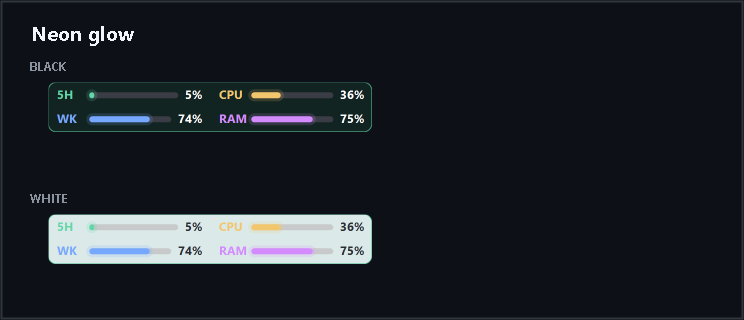
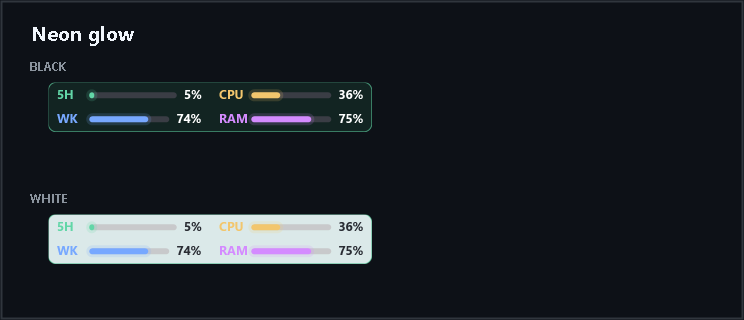
Improve layered text readability

diff --git a/UI/CompactBarRenderer.cs b/UI/CompactBarRenderer.cs
@@ -1,4 +1,5 @@
 using System.Drawing.Drawing2D;
+using System.Drawing.Text;
 using CodexUsageMonitor.Models;
 
 namespace CodexUsageMonitor.UI;
@@ -37,6 +38,8 @@ internal static class CompactBarRenderer
     {
         MetricVisual[] metrics = Metrics(settings, snapshot, systemUsage);
         bool lightTheme = settings.ThemeVariant == ThemeVariant.Light;
+        graphics.TextRenderingHint = TextRenderingHint.AntiAliasGridFit;
+        graphics.TextContrast = 0;
         DrawBackground(graphics, size, settings, metrics, scale);
 
         switch (settings.CompactBarStyle)
@@ -216,8 +219,8 @@ internal static class CompactBarRenderer
             graphics.FillPath(cellBrush, cellPath);
         }
 
-        using var font = new Font("Segoe UI", 9f, FontStyle.Regular, GraphicsUnit.Point);
-        using var boldFont = new Font(font, FontStyle.Bold);
+        using var font = new Font("Segoe UI", 9.5f, FontStyle.Bold, GraphicsUnit.Point);
+        using var boldFont = new Font("Segoe UI", 9.5f, FontStyle.Bold, GraphicsUnit.Point);
         using var textBrush = new SolidBrush(textColor);
         using var titleBrush = new SolidBrush(titleColor);
         string percentText = PercentText(metric.Percent);
@@ -244,13 +247,23 @@ internal static class CompactBarRenderer
                 DrawIcon(graphics, metric.Icon, new Rectangle(contentX, bounds.Y + S(6, scale), S(13, scale), S(13, scale)), titleColor, scale);
                 contentX += S(18, scale);
             }
-            graphics.DrawString(metric.Title, style == LinearStyle.Neon ? boldFont : font, titleBrush, contentX, bounds.Y + S(2, scale));
+            graphics.DrawString(
+                metric.Title,
+                style == LinearStyle.Neon ? boldFont : font,
+                titleBrush,
+                contentX,
+                bounds.Y + S(1, scale));
             contentX += S(style == LinearStyle.Cards ? 31 : 34, scale);
         }
 
         if (metric.Settings.Presentation == MetricPresentation.PercentOnly)
         {
-            graphics.DrawString(percentText, boldFont, textBrush, contentX + S(3, scale), bounds.Y + S(2, scale));
+            graphics.DrawString(
+                percentText,
+                boldFont,
+                textBrush,
+                contentX + S(3, scale),
+                bounds.Y + S(1, scale));
             return;
         }
 
@@ -259,7 +272,12 @@ internal static class CompactBarRenderer
         {
             SizeF valueSize = graphics.MeasureString(percentText, boldFont);
             valueWidth = (int)Math.Ceiling(valueSize.Width) + S(4, scale);
-            graphics.DrawString(percentText, boldFont, textBrush, bounds.Right - valueSize.Width - S(3, scale), bounds.Y + S(2, scale));
+            graphics.DrawString(
+                percentText,
+                boldFont,
+                textBrush,
+                bounds.Right - valueSize.Width - S(3, scale),
+                bounds.Y + S(1, scale));
         }
 
         var track = new Rectangle(
@@ -286,7 +304,7 @@ internal static class CompactBarRenderer
                 titleHeight + S(1, scale),
                 diameter,
                 diameter);
-            using var font = new Font("Segoe UI", 8f, FontStyle.Regular, GraphicsUnit.Point);
+            using var font = new Font("Segoe UI", 8.5f, FontStyle.Bold, GraphicsUnit.Point);
             using var boldFont = new Font("Segoe UI", diameter < S(34, scale) ? 7.5f : 9f, FontStyle.Bold, GraphicsUnit.Point);
             using var titleBrush = new SolidBrush(Color.FromArgb(255, color.R, color.G, color.B));
             Color textColor = lightTheme ? Color.FromArgb(42, 45, 52) : Color.White;
@@ -314,11 +332,11 @@ internal static class CompactBarRenderer
             if (lightTheme)
                 track = Mix(track, Color.White, 0.72f);
             Color textColor = lightTheme ? Color.FromArgb(42, 45, 52) : Color.White;
-            using var font = new Font("Segoe UI", 9f, FontStyle.Regular, GraphicsUnit.Point);
-            using var boldFont = new Font(font, FontStyle.Bold);
+            using var font = new Font("Segoe UI", 9.5f, FontStyle.Bold, GraphicsUnit.Point);
+            using var boldFont = new Font("Segoe UI", 9.5f, FontStyle.Bold, GraphicsUnit.Point);
             using var textBrush = new SolidBrush(textColor);
             DrawIcon(graphics, metric.Icon, new Rectangle(S(6, scale), y + S(3, scale), S(14, scale), S(14, scale)), textColor, scale);
-            graphics.DrawString(metric.Title, font, textBrush, S(27, scale), y + S(1, scale));
+            graphics.DrawString(metric.Title, font, textBrush, S(27, scale), y);
 
             int trackX = S(74, scale);
             int valueWidth = metric.Settings.Presentation == MetricPresentation.BarOnly ? 0 : S(42, scale);
@@ -328,7 +346,7 @@ internal static class CompactBarRenderer
                 DrawTrack(graphics, trackBounds, metric.Percent, track, color, false, scale);
             }
             if (metric.Settings.Presentation != MetricPresentation.BarOnly)
-                graphics.DrawString(PercentText(metric.Percent), boldFont, textBrush, S(207, scale), y + S(1, scale));
+                graphics.DrawString(PercentText(metric.Percent), boldFont, textBrush, S(207, scale), y);
             row++;
         }
     }
@@ -340,14 +358,14 @@ internal static class CompactBarRenderer
         {
             int x = S(5 + index * 74, scale);
             Color color = MetricColor(metric, Color.CornflowerBlue);
-            using var font = new Font("Segoe UI", 8.5f, FontStyle.Regular, GraphicsUnit.Point);
-            using var boldFont = new Font(font, FontStyle.Bold);
+            using var font = new Font("Segoe UI", 9f, FontStyle.Bold, GraphicsUnit.Point);
+            using var boldFont = new Font("Segoe UI", 9.5f, FontStyle.Bold, GraphicsUnit.Point);
             Color textColor = lightTheme ? Color.FromArgb(42, 45, 52) : Color.White;
             using var titleBrush = new SolidBrush(textColor);
             using var valueBrush = new SolidBrush(color);
             DrawIcon(graphics, metric.Icon, new Rectangle(x, S(7, scale), S(14, scale), S(14, scale)), color, scale);
-            graphics.DrawString(metric.Title, font, titleBrush, x + S(19, scale), S(5, scale));
-            graphics.DrawString(PercentText(metric.Percent), boldFont, valueBrush, x + S(18, scale), S(25, scale));
+            graphics.DrawString(metric.Title, font, titleBrush, x + S(19, scale), S(4, scale));
+            graphics.DrawString(PercentText(metric.Percent), boldFont, valueBrush, x + S(18, scale), S(24, scale));
             if (index > 0)
             {
                 using var divider = new Pen(lightTheme ? Color.FromArgb(55, 30, 34, 42) : Color.FromArgb(65, 255, 255, 255), S(1, scale));
@@ -430,7 +448,12 @@ internal static class CompactBarRenderer
         }
     }
 
-    private static void DrawCenteredText(Graphics graphics, string text, Font font, Brush brush, Rectangle bounds)
+    private static void DrawCenteredText(
+        Graphics graphics,
+        string text,
+        Font font,
+        SolidBrush brush,
+        Rectangle bounds)
     {
         using var format = new StringFormat
         {
